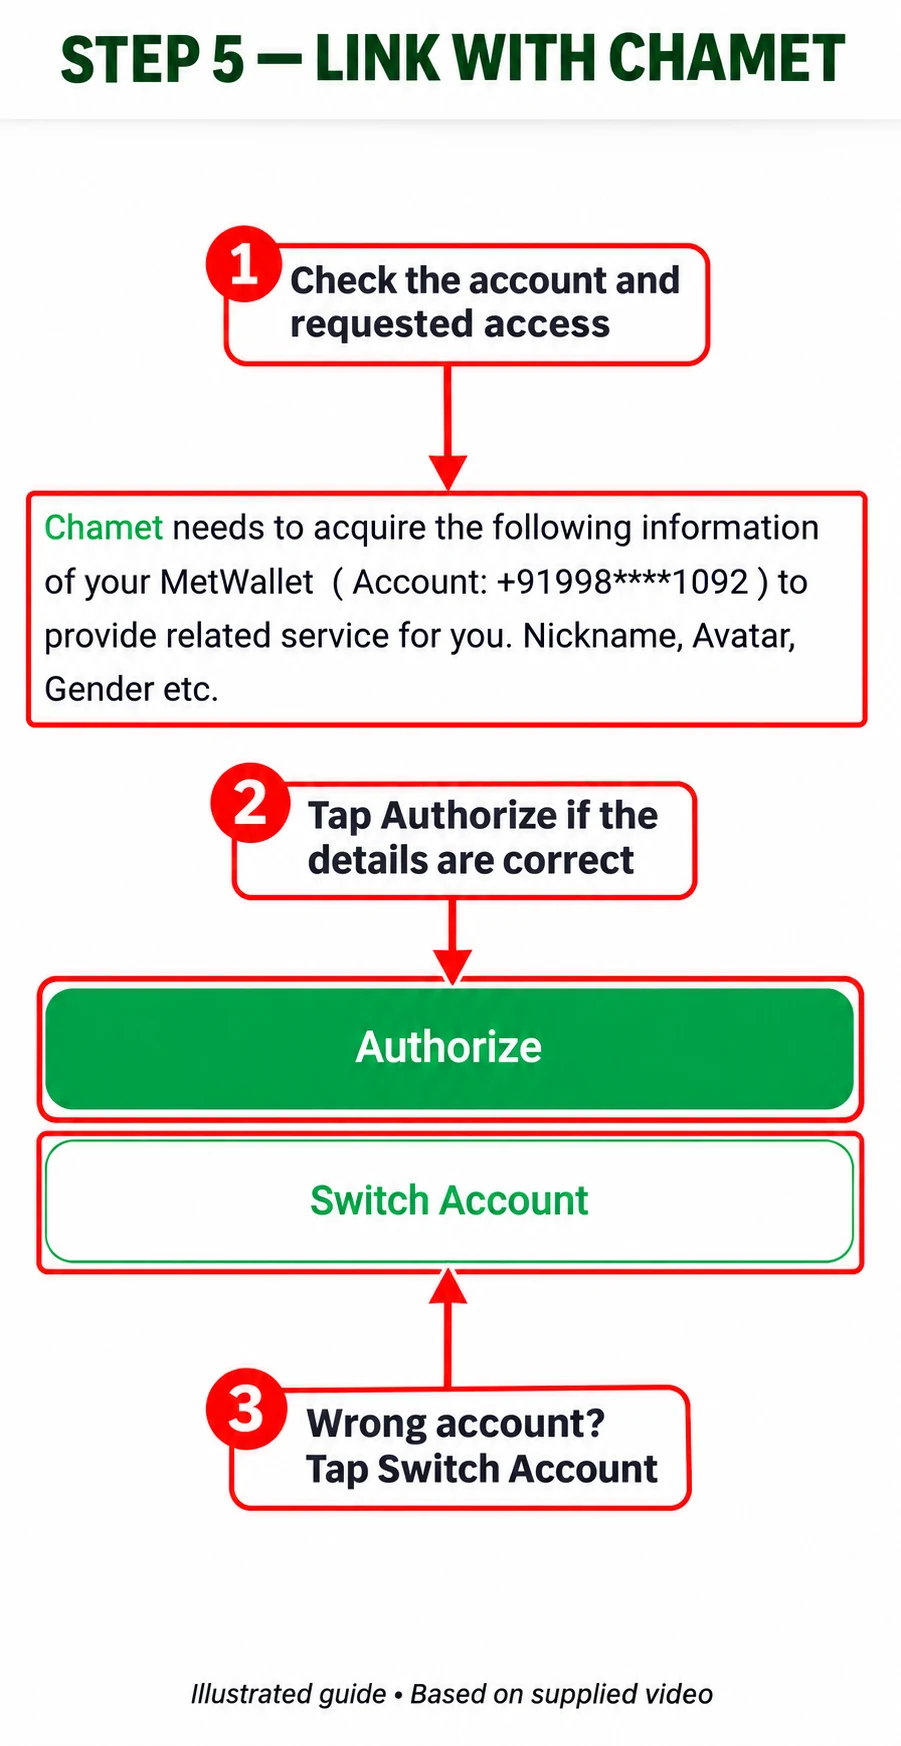
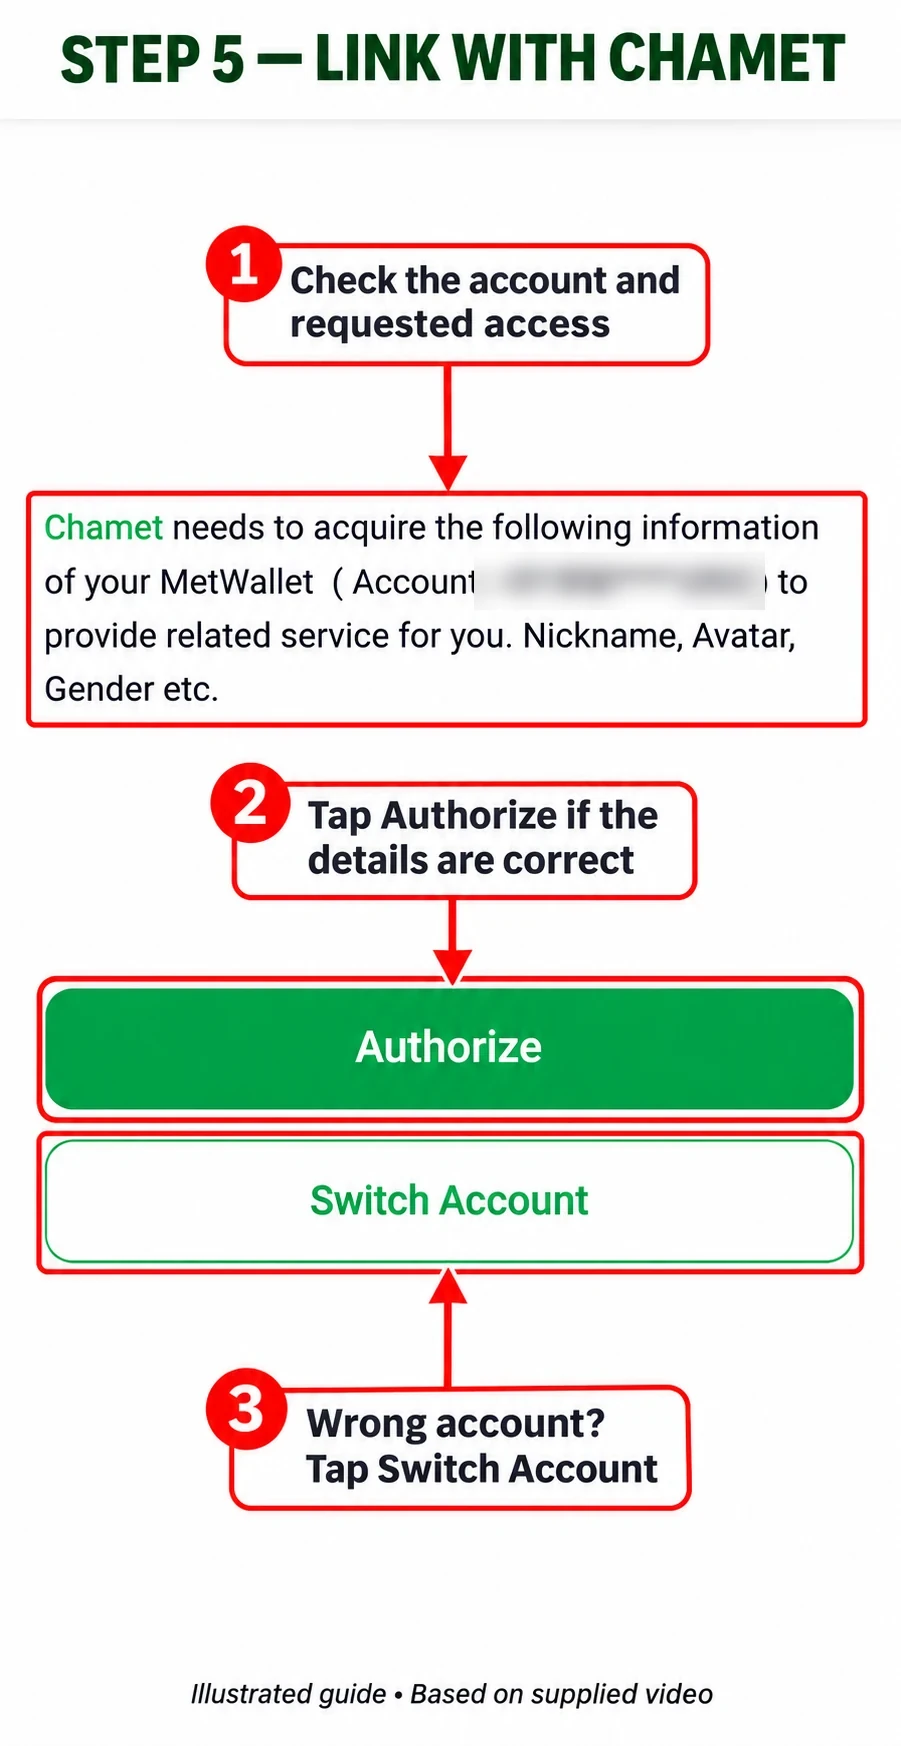
Blur personal details in tutorial screenshots
Redacts usernames, names, profile photos, IDs, phone numbers, emails,
wallet/payout account numbers, age and location in 27 served
screenshots. Originals in design-source/ are unchanged; boxes are in
scripts/redact-screenshots.py.

Claude-Session: https://claude.ai/code/session_01QvcNt9DZJQv5bQBiDHWprD

Changed region(s): [[0.5283, 0.3093, 0.8701, 0.3711]]

diff --git a/scripts/redact-screenshots.py b/scripts/redact-screenshots.py
@@ -1,0 +1,68 @@
+"""Blur personal details (names, usernames, IDs, phone numbers, emails, account
+numbers, locations, profile photos) in the tutorial screenshots served by the site.
+
+Reads originals from design-source/assets/tutorials (left untouched) and writes the
+redacted delivery copies to public/images/guides/<guide>/<semantic-name>.webp.
+Run after scripts/prepare-assets.py:  python3 -I scripts/redact-screenshots.py
+Boxes are (left, top, right, bottom) in original pixel coordinates.
+"""
+import json, os
+from PIL import Image, ImageFilter
+
+ROOT = os.getcwd()
+SRC = os.path.join(ROOT, "design-source", "assets", "tutorials")
+tut = json.load(open(os.path.join(ROOT, "src/content/tutorial-images.json")))
+
+BOXES = {
+    "01-Create-Agency/04": [(645, 100, 901, 180)],                       # username
+    "01-Create-Agency/05": [(480, 95, 880, 180)],                        # avatar + username
+    "01-Create-Agency/06": [(660, 100, 901, 180)],                       # username
+    "02-Create-Host-Account/01": [(110, 395, 560, 480)],                 # email
+    "02-Create-Host-Account/02": [(125, 415, 670, 505)],                 # email
+    "02-Create-Host-Account/04": [(520, 300, 860, 365)],                 # email
+    "02-Create-Host-Account/08": [(245, 255, 535, 320), (190, 322, 372, 372)],  # name, country
+    "02-Create-Host-Account/09": [(410, 318, 545, 365), (375, 400, 582, 452), (560, 570, 610, 618),
+                                  (445, 652, 645, 702), (348, 735, 610, 786), (342, 1395, 610, 1445)],  # ID, nickname, age, region, location, gmail
+    "02-Create-Host-Account/14": [(430, 105, 560, 228), (370, 245, 630, 308), (230, 312, 750, 362)],  # photo, name, country/languages
+    "03-Agency-Withdrawal-and-MetWallet/01": [(540, 185, 1024, 285)],    # avatar + username
+    "03-Agency-Withdrawal-and-MetWallet/02": [(570, 225, 920, 305), (700, 335, 880, 395), (355, 447, 580, 505), (650, 885, 880, 1015)],
+    "03-Agency-Withdrawal-and-MetWallet/05": [(265, 635, 520, 705)],     # phone
+    "03-Agency-Withdrawal-and-MetWallet/07": [(490, 548, 760, 610)],     # account
+    "03-Agency-Withdrawal-and-MetWallet/10": [(610, 205, 960, 300), (450, 385, 930, 705), (450, 712, 800, 782), (640, 1000, 930, 1145)],
+    "04-Host-Withdrawal-and-MetWallet/01": [(85, 595, 290, 652), (535, 595, 700, 652), (540, 975, 735, 1032)],  # host names
+    "04-Host-Withdrawal-and-MetWallet/02": [(435, 120, 590, 258), (350, 262, 670, 336), (330, 340, 470, 395)],  # photo, name, country
+    "04-Host-Withdrawal-and-MetWallet/04": [(160, 810, 400, 862)],       # phone
+    "04-Host-Withdrawal-and-MetWallet/07": [(240, 570, 485, 635)],       # phone
+    "04-Host-Withdrawal-and-MetWallet/09": [(474, 552, 765, 610)],       # account number
+    "04-Host-Withdrawal-and-MetWallet/10": [(75, 995, 305, 1050), (75, 1250, 380, 1305)],  # phone, wallet account
+    "05-MetWallet-Cash-Out/01": [(555, 1285, 760, 1335)],                # salary ID
+    "05-MetWallet-Cash-Out/02": [(80, 985, 500, 1040)],                  # email
+    "05-MetWallet-Cash-Out/03": [(525, 1318, 810, 1372)],                # salary ID
+    "05-MetWallet-Cash-Out/05": [(290, 390, 460, 440)],                  # payout account
+    "05-MetWallet-Cash-Out/06": [(200, 525, 460, 580)],                  # payout account
+    "05-MetWallet-Cash-Out/07": [(250, 365, 490, 415)],                  # payout account
+    "06-Dashboard-Guide/02": [(690, 185, 1024, 280)],                    # avatar + username
+}
+
+def redact(im, box):
+    l, t, r, b = box
+    region = im.crop(box)
+    w, h = region.size
+    # Pixelate then blur: unreadable, but still looks like a soft blur.
+    small = region.resize((max(1, w // 14), max(1, h // 14)), Image.BILINEAR)
+    region = small.resize((w, h), Image.BILINEAR).filter(ImageFilter.GaussianBlur(6))
+    im.paste(region, (l, t))
+
+name_of = {}
+for guide, data in tut.items():
+    for num, name, _ in data["images"]:
+        name_of[f"{data['folder']}/{num}"] = (guide, name)
+
+for key, boxes in BOXES.items():
+    guide, name = name_of[key]
+    im = Image.open(os.path.join(SRC, key + ".webp")).convert("RGB")
+    W, H = im.size
+    for (l, t, r, b) in boxes:
+        redact(im, (max(0, l), max(0, t), min(W, r), min(H, b)))
+    im.save(os.path.join(ROOT, "public/images/guides", guide, name + ".webp"), quality=90, method=6)
+print(len(BOXES), "screenshots redacted")

diff --git a/README.md b/README.md
@@ -30,7 +30,7 @@ npm run dev                  # http://localhost:3000
 | `npm run typecheck` | `tsc --noEmit` |
 | `npm run validate [-- http://localhost:3000]` | Crawls a running build and checks status codes, H1s, unique titles/descriptions, canonicals, sitemap, JSON-LD, internal links, assets and registration-link roles |
 
-`scripts/prepare-assets.py` regenerates `public/images/**`, `public/og/*` and `src/content/image-dimensions.json` from `design-source/assets/` (requires Python 3 + Pillow). You only need it if you change source images.
+`scripts/prepare-assets.py` regenerates `public/images/**`, `public/og/*` and `src/content/image-dimensions.json` from `design-source/assets/` (requires Python 3 + Pillow). You only need it if you change source images. Afterwards run `python3 -I scripts/redact-screenshots.py`, which blurs personal details (names, IDs, phone numbers, emails, account numbers) in the served screenshots.
 
 ## Where things live
 

diff --git a/docs/ASSET-MANIFEST.md b/docs/ASSET-MANIFEST.md
@@ -33,6 +33,8 @@ Why not the reference site's logo file: https://www.chametagency.org/ does not r
 
 ## Tutorial screenshots (51 instances)
 
+**Privacy redaction:** 27 delivery screenshots have personal details blurred (usernames, names, profile photos, IDs, phone numbers, emails, wallet/payout account numbers, age and location). Run `python3 -I scripts/redact-screenshots.py` after `prepare-assets.py`; the blur boxes are listed in that script. The originals in `design-source/` are unchanged.
+
 Wallet screens intentionally recur between the agency withdrawal, host withdrawal and cash-out guides (as supplied). No archive images are used.
 
 ### 01-Create-Agency → `/agency.html` (6)
